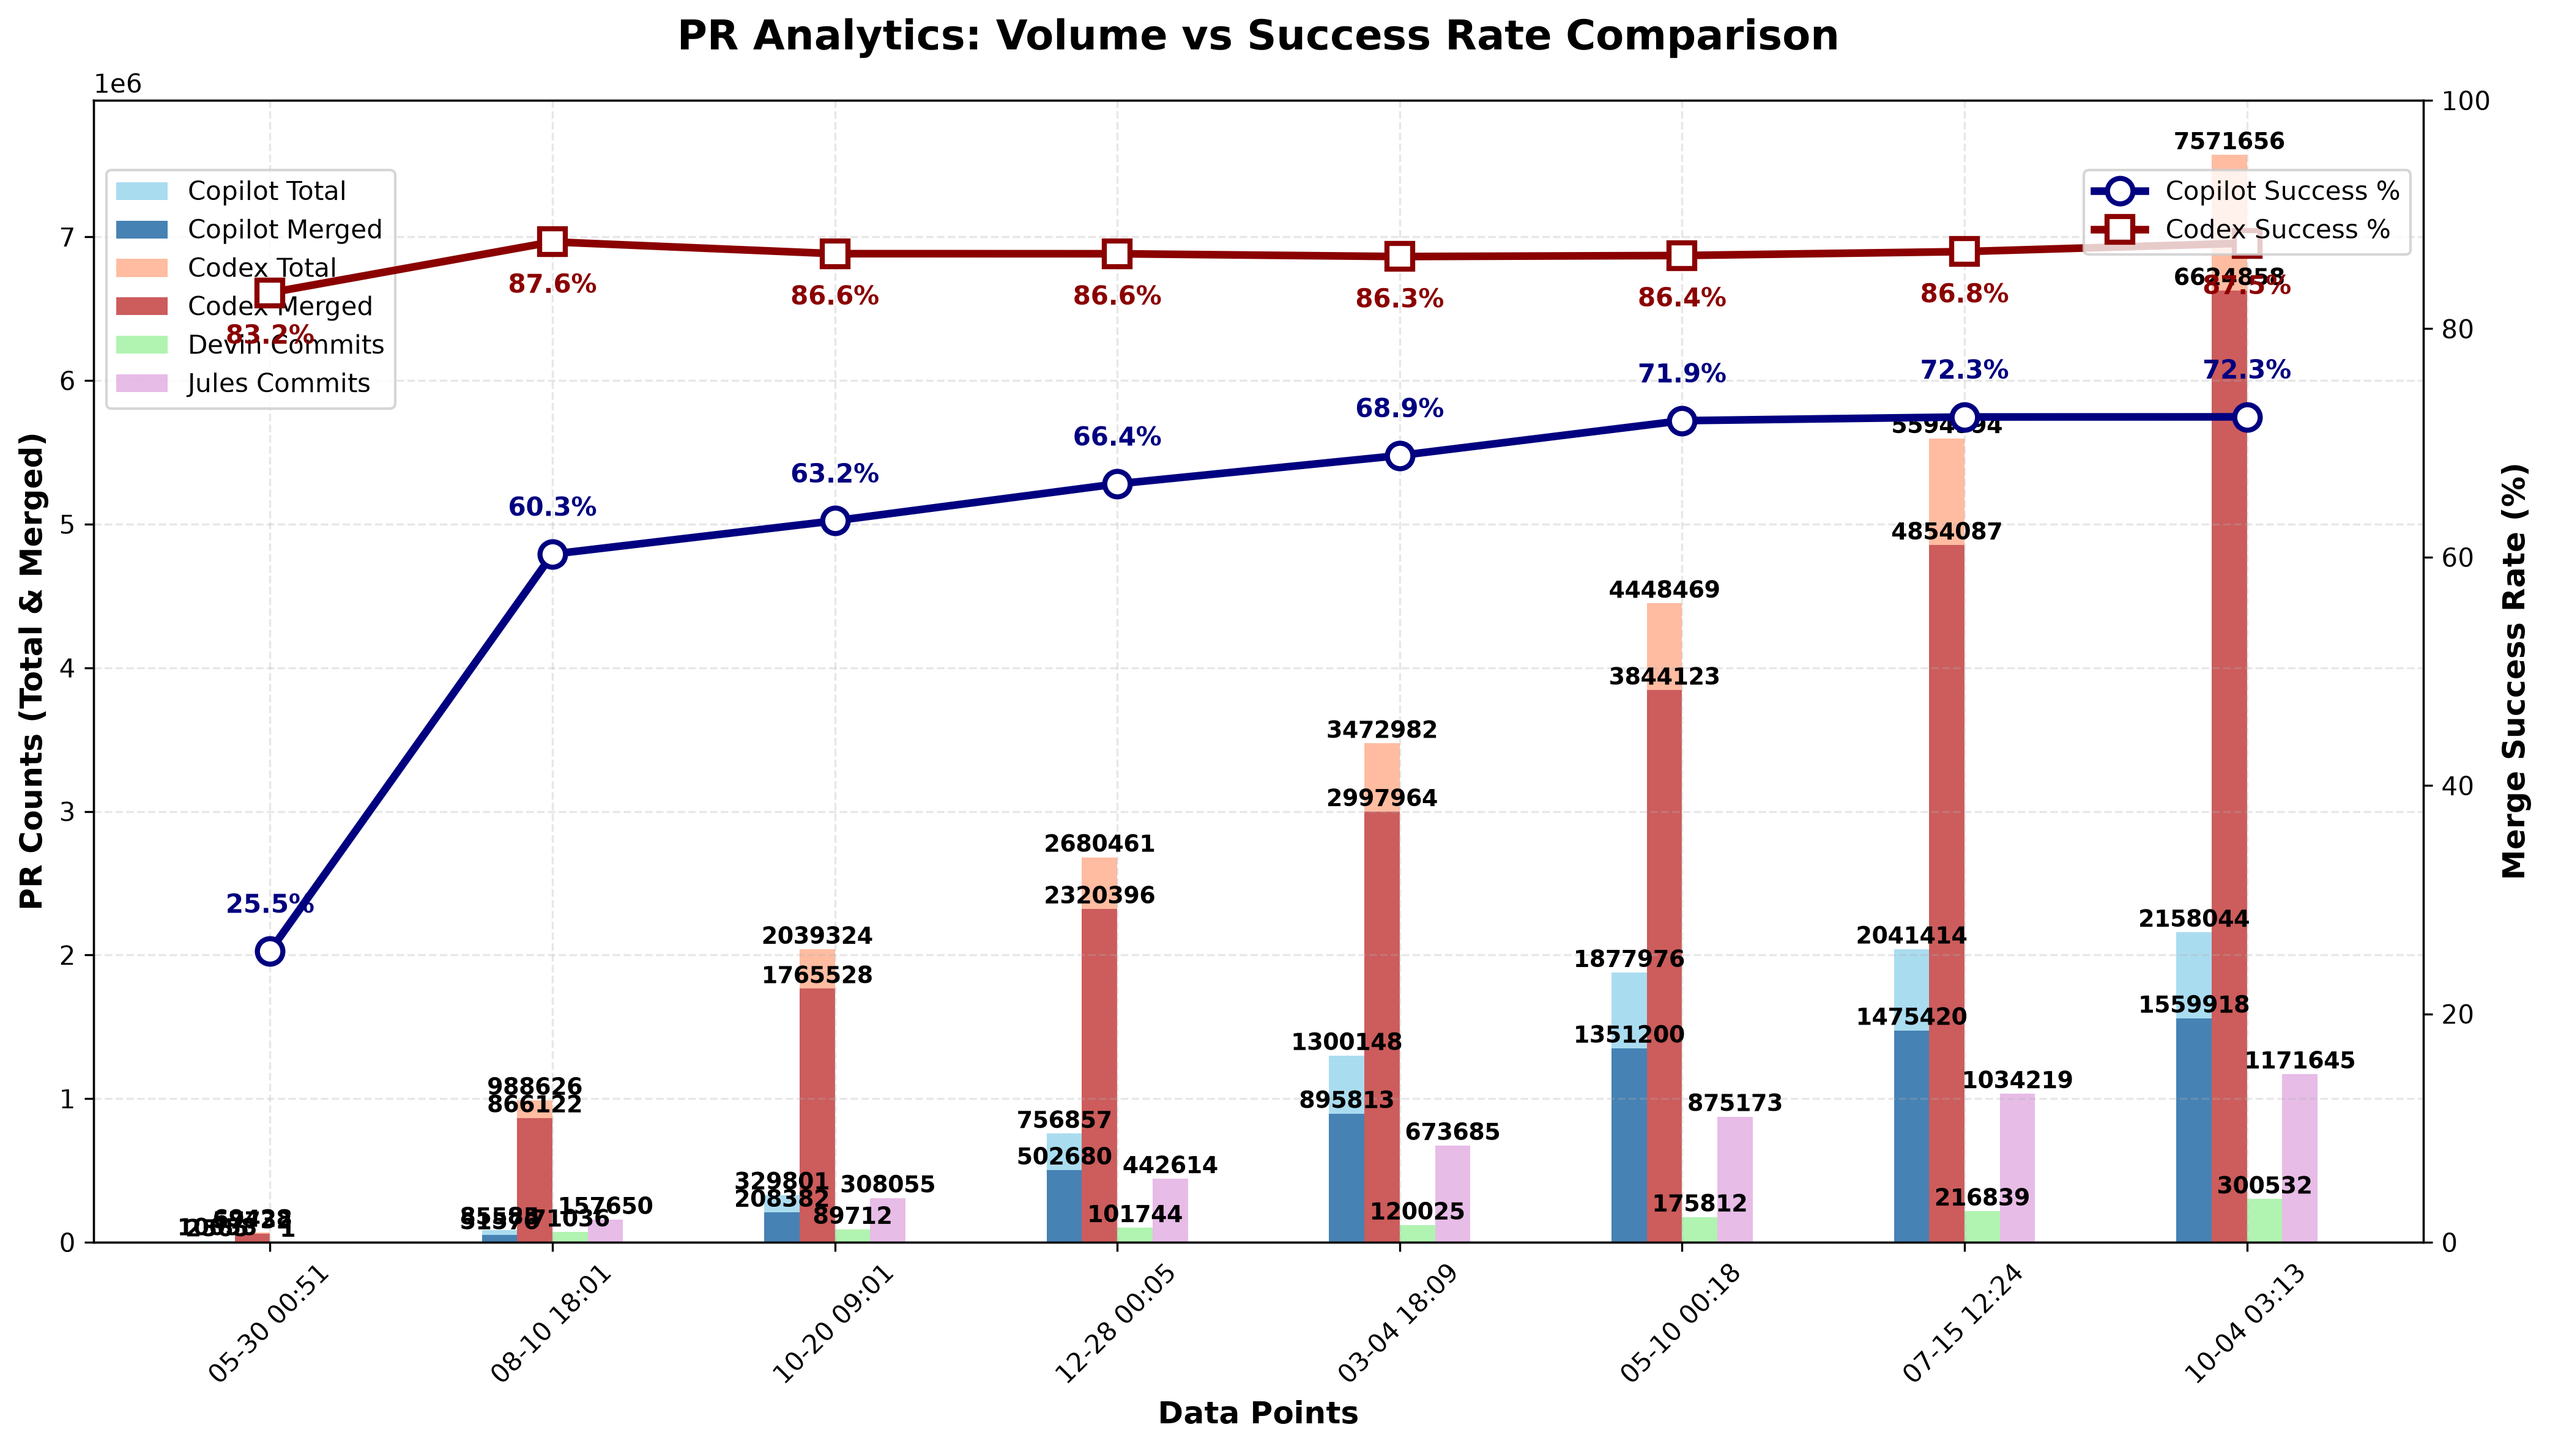
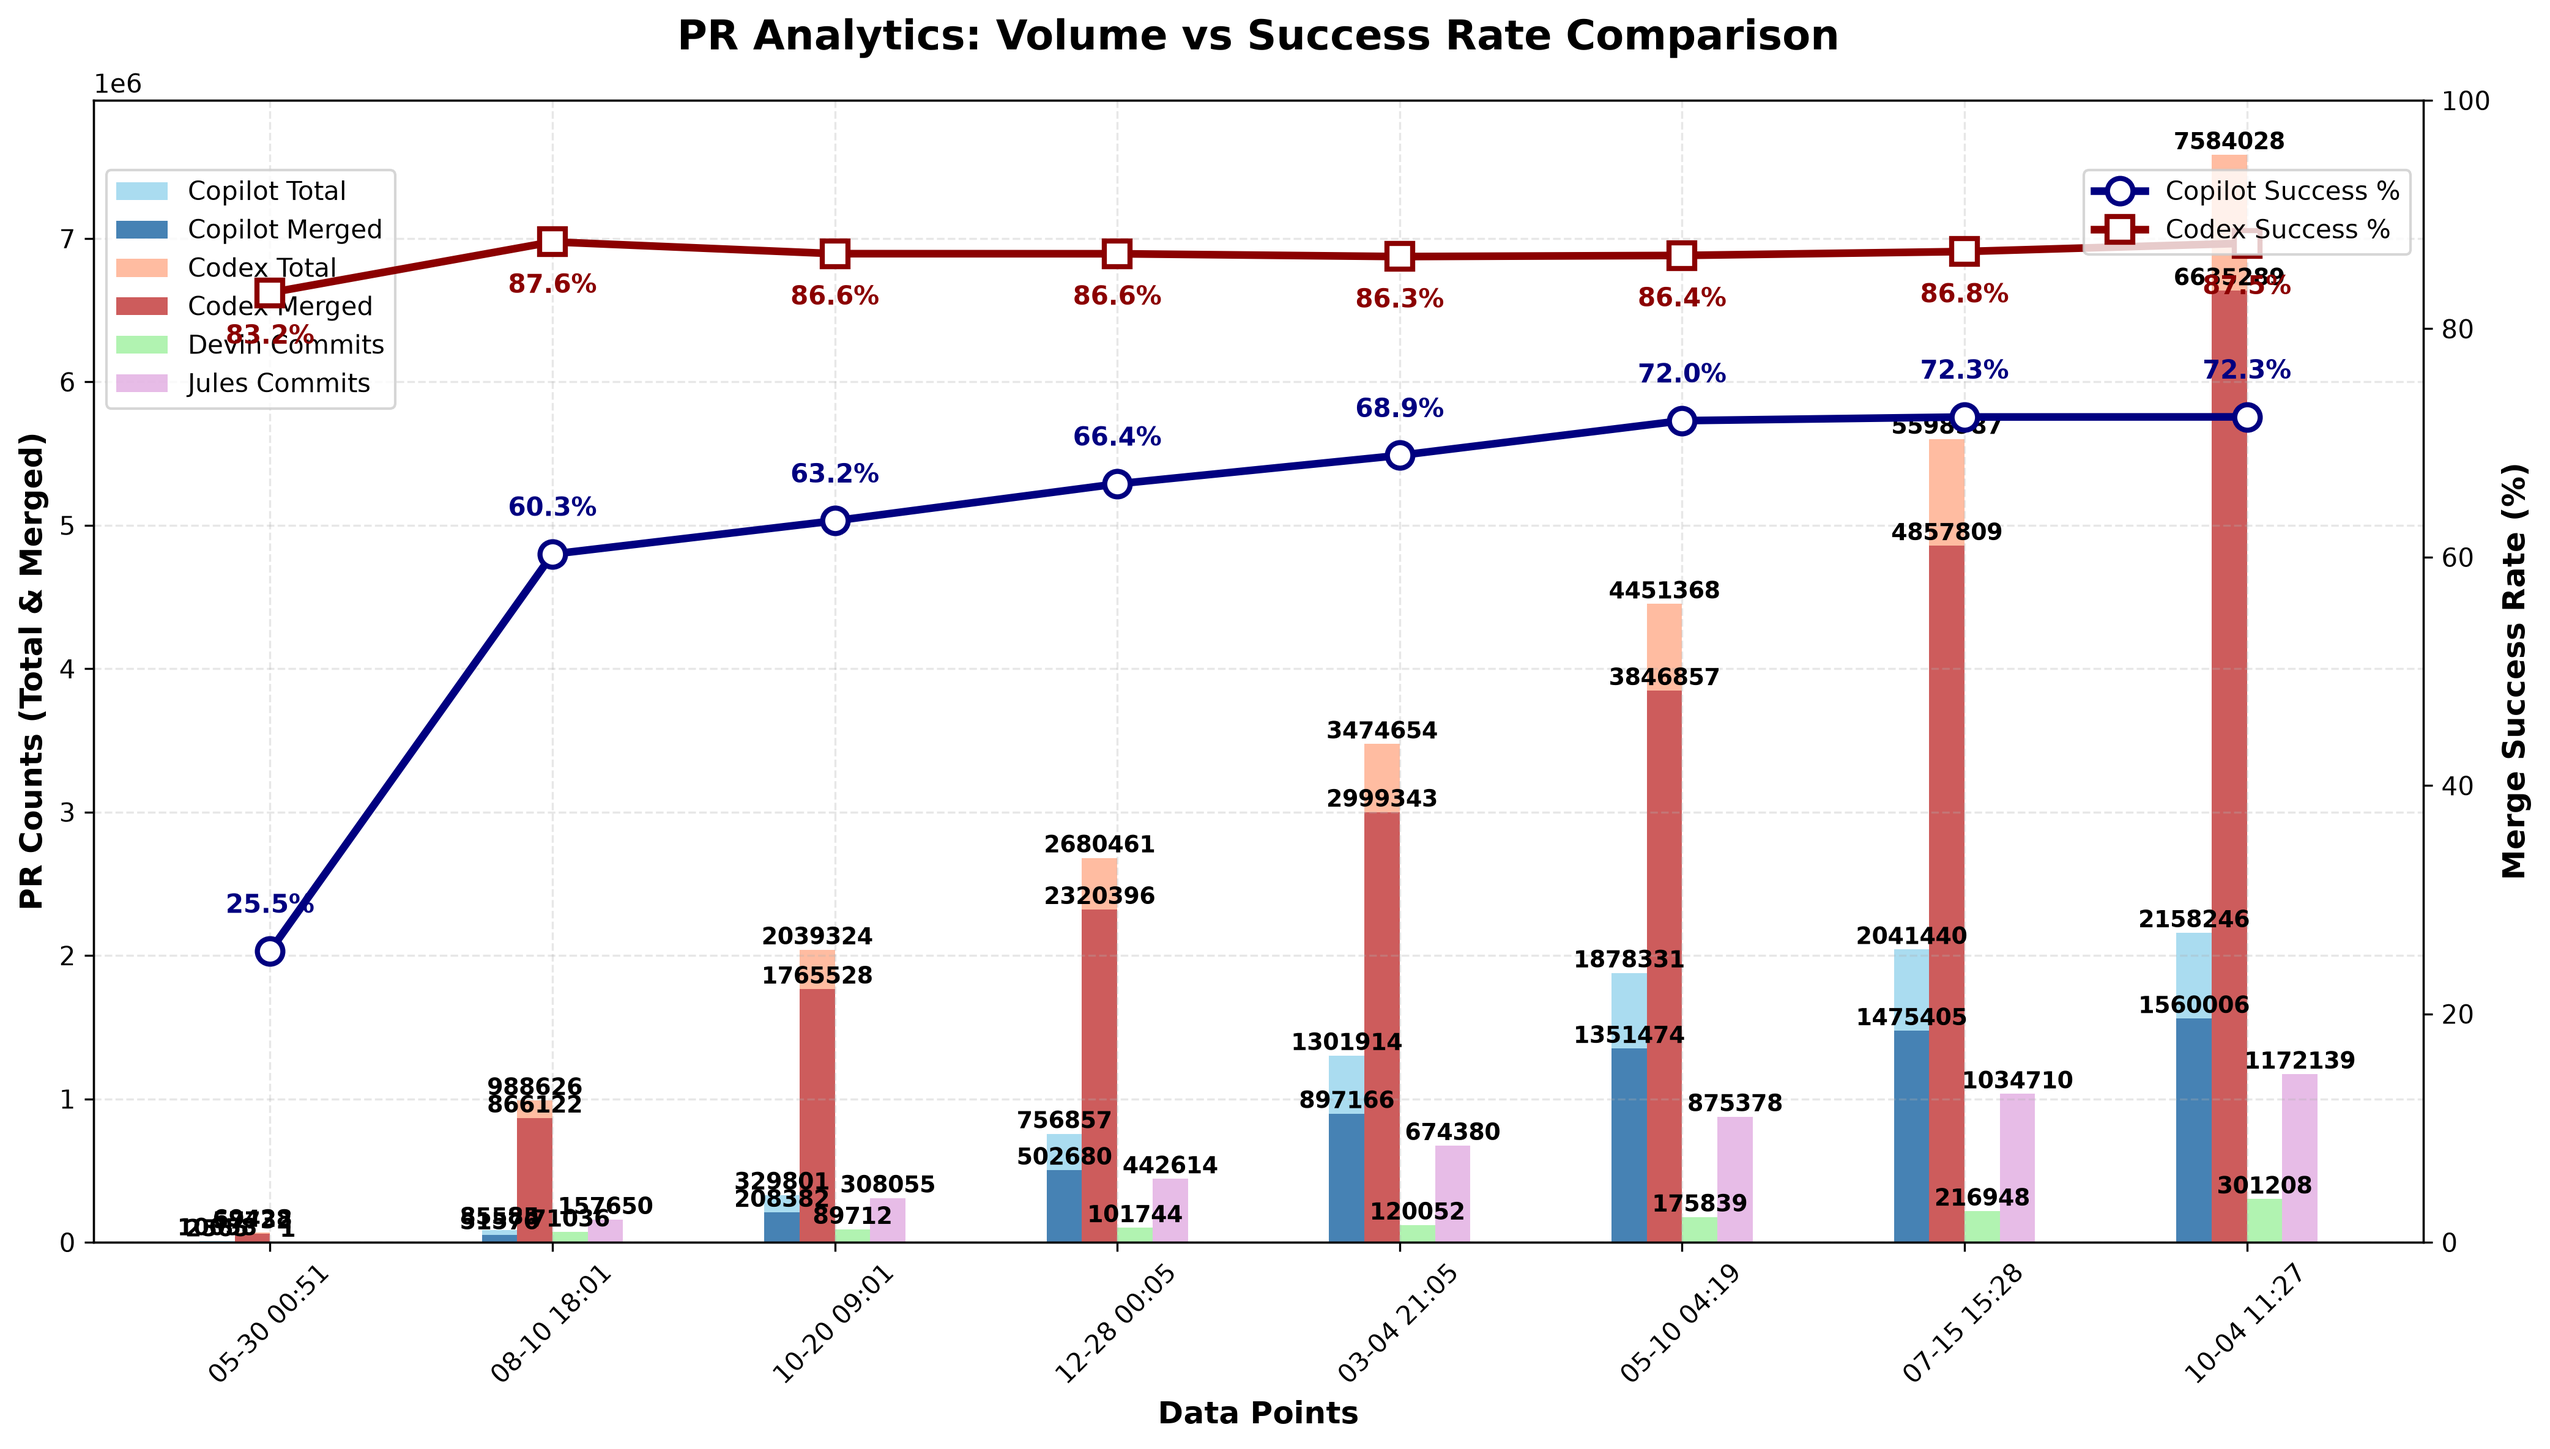
chore: update PR‑approval chart

diff --git a/docs/index.html b/docs/index.html
@@ -3742,6 +3742,7 @@
                         <td>N/A</td>
                         <td>N/A</td>
                         <td>N/A</td>
+                        <td>N/A</td>
                     </tr>
                     <tr>
                         <td>Codex</td>
@@ -7442,27 +7443,28 @@
                         <td>N/A</td>
                         <td>N/A</td>
                         <td>N/A</td>
+                        <td>N/A</td>
                     </tr>
                 <tr>
                         <td>Devin</td>
                         <td>N/A</td>
                         <td>N/A</td>
                         <td>N/A</td>
-                        <td>300,532</td>
+                        <td>301,208</td>
                     </tr>
                     <tr>
                         <td>Jules</td>
                         <td>N/A</td>
                         <td>N/A</td>
                         <td>N/A</td>
-                        <td>1,171,645</td>
+                        <td>1,172,139</td>
                     </tr>
                     </tbody>
             </table>
         </section>
 
         <footer>
-            <p>Last updated: <span id="last-updated">October 04, 2026 03:13 UTC</span></p>
+            <p>Last updated: <span id="last-updated">October 04, 2026 11:27 UTC</span></p>
             <p><a href="https://github.com/aavetis/ai-pr-watcher">View on GitHub</a></p>
         </footer>
     </div>

diff --git a/README.md b/README.md
@@ -19,7 +19,7 @@ Explore the GitHub search queries used:
 
 | Service | Total PRs | Merged PRs | Merge Rate | Total Commits |
 | ------- | --------- | ---------- | ---------- | ------------- |
-| Copilot | 2,158,044 | 1,559,918 | 72.28% | N/A           |
-| Codex   | 7,571,656 | 6,624,858 | 87.50% | N/A           |
-| Devin   | N/A       | N/A        | N/A        | 300,532 |
-| Jules   | N/A       | N/A        | N/A        | 1,171,645 |
+| Copilot | 2,158,246 | 1,560,006 | 72.28% | N/A           |
+| Codex   | 7,584,028 | 6,635,289 | 87.49% | N/A           |
+| Devin   | N/A       | N/A        | N/A        | 301,208 |
+| Jules   | N/A       | N/A        | N/A        | 1,172,139 |
